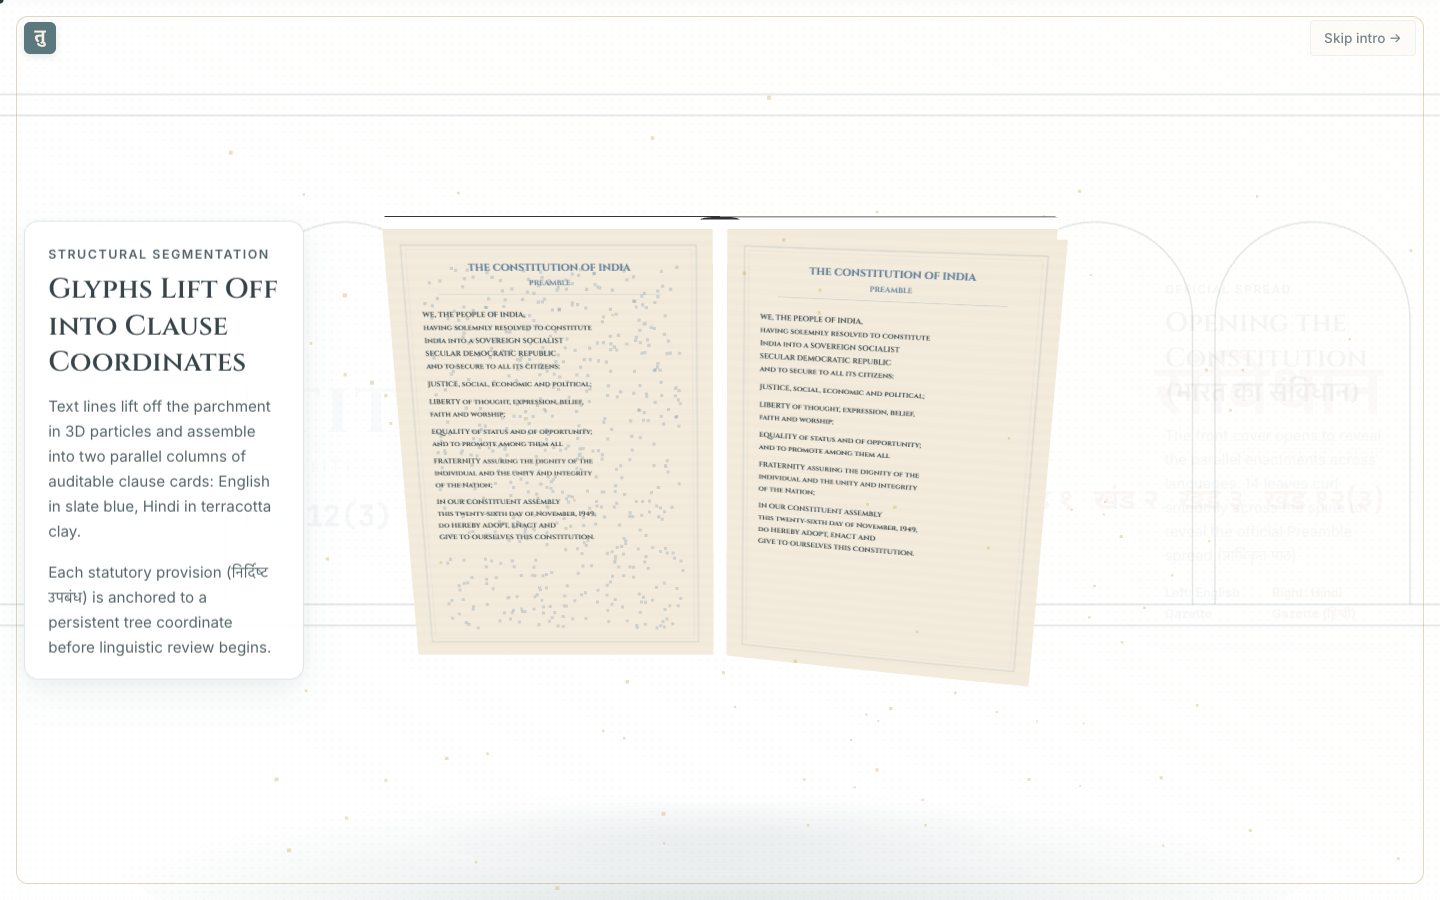
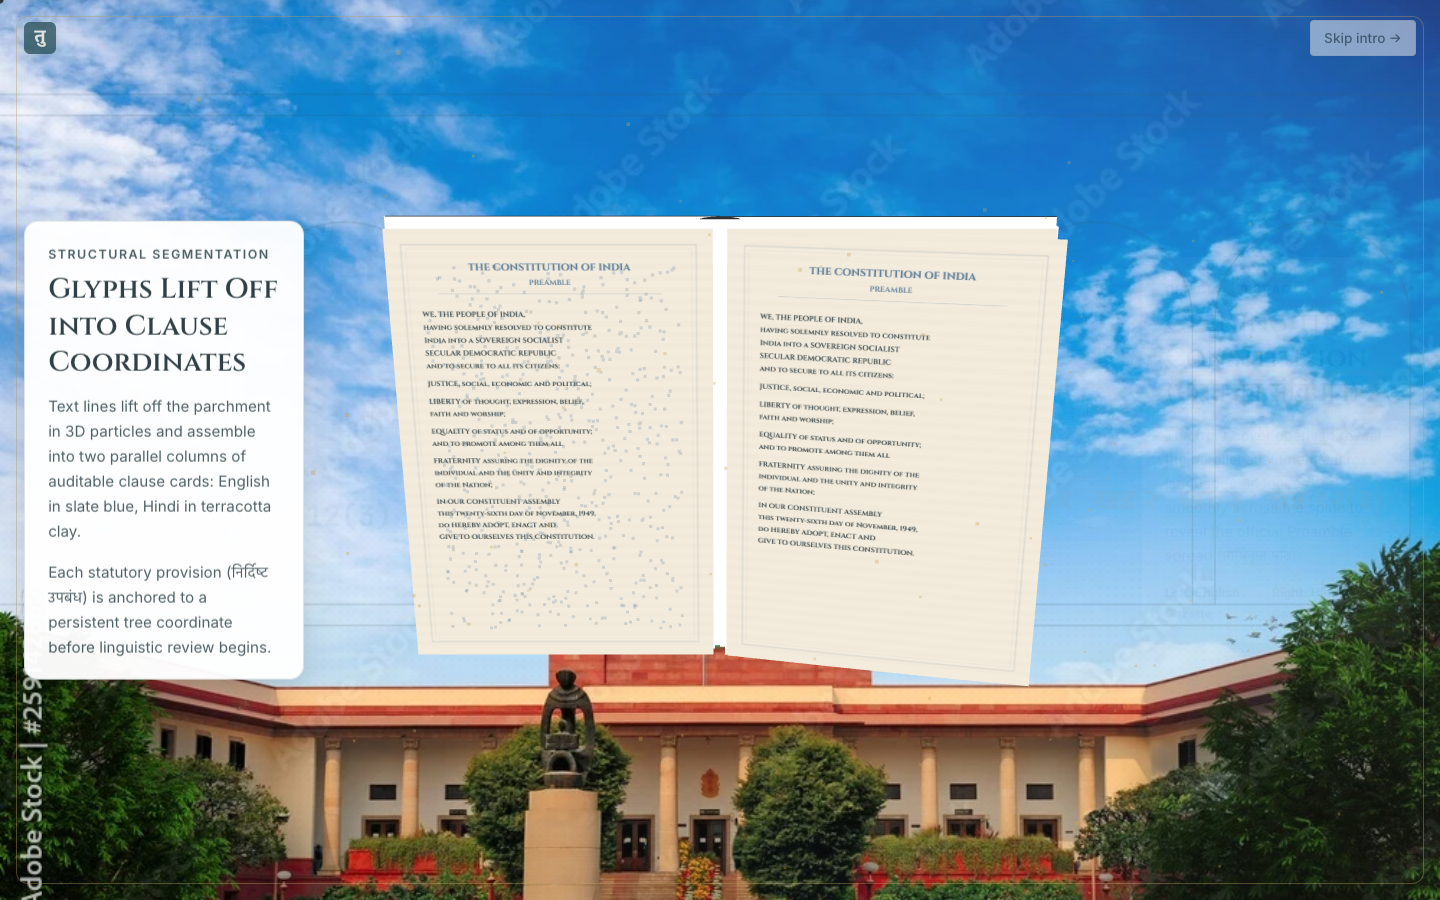
feat(story): integrate Supreme Court background image with semi-transparent stage panel

diff --git a/frontend/static/style.css b/frontend/static/style.css
@@ -80,6 +80,12 @@ body {
   -webkit-font-smoothing: antialiased;
 }
 
+/* Landing Story Full-Bleed Supreme Court Background Image */
+body.story-landing-page,
+body:has(#story-canvas-container) {
+  background: #FFFFFF url('/public/assets/supreme_court_bg.webp') center center / cover no-repeat fixed;
+}
+
 /* Accessible Focus States */
 a:focus-visible, button:focus-visible, select:focus-visible, input:focus-visible {
   outline: 2px solid var(--book-cover);
@@ -326,9 +332,10 @@ body.debug-mode .fps-counter {
   position: relative;
   width: min(84vw, 980px);
   height: min(84vh, 760px);
-  background: #FFFFFF;
+  background: rgba(255, 255, 255, 0.22);
+  border: 1px solid rgba(255, 255, 255, 0.50);
   border-radius: 20px;
-  box-shadow: 0 16px 44px rgba(35, 74, 82, 0.05), 0 2px 10px rgba(35, 74, 82, 0.02);
+  box-shadow: 0 16px 48px rgba(35, 74, 82, 0.12), 0 2px 10px rgba(35, 74, 82, 0.04);
   transform: rotate(-1.5deg);
   overflow: hidden;
   pointer-events: none;
@@ -345,7 +352,7 @@ body.debug-mode .fps-counter {
 /* Layer a: Plain White Base + Faint Paper Grain (4 to 6 percent) */
 .stage-layer-base {
   z-index: 1;
-  background: #FFFFFF;
+  background: transparent;
 }
 
 .stage-grain {
@@ -580,10 +587,10 @@ body.debug-mode .fps-counter {
   position: fixed;
   z-index: 20;
   background: #FFFFFF; /* Plain white card surface */
-  border: 1px solid var(--surface-border);
+  border: 1px solid rgba(220, 226, 228, 0.95);
   border-radius: var(--radius-lg);
   padding: 1.15rem 1.45rem;
-  box-shadow: 0 14px 36px rgba(35, 74, 82, 0.08), 0 2px 8px rgba(35, 74, 82, 0.03);
+  box-shadow: 0 16px 40px rgba(0, 0, 0, 0.12), 0 2px 10px rgba(0, 0, 0, 0.04);
   opacity: 0;
   pointer-events: none;
   transition: opacity 350ms ease, transform 350ms cubic-bezier(0.16, 1, 0.3, 1);

diff --git a/frontend/index.html b/frontend/index.html
@@ -7,7 +7,7 @@
   <link rel="stylesheet" href="/static/style.css">
   <meta name="description" content="A calm, evidence-backed bilingual consistency reviewer for official Indian legal texts in English and Hindi.">
 </head>
-<body>
+<body class="story-landing-page">
 
   <!-- Preloader: Calm 1.5s brass line loader -->
   <div id="preloader" class="preloader" aria-hidden="true">

diff --git a/backend/eval/verify_layout_and_stage.py b/backend/eval/verify_layout_and_stage.py
@@ -32,12 +32,24 @@ async def verify():
         await page.goto("http://127.0.0.1:8000/", wait_until="networkidle")
         await page.wait_for_timeout(1000)
 
-        # --- Plain White Background Verification ---
-        print("\n--- Verifying Plain White Background ---")
-        bg_color = await page.evaluate("() => window.getComputedStyle(document.body).backgroundColor")
-        print(f"  Body background color: {bg_color}")
-        assert bg_color == "rgb(255, 255, 255)", f"Body background must be plain white, got {bg_color}"
-        print("  Body background verified: pure plain white.")
+        # --- Supreme Court Background Image Verification ---
+        print("\n--- Verifying Supreme Court Background Image ---")
+        bg_data = await page.evaluate("""() => {
+            const bodyStyle = window.getComputedStyle(document.body);
+            const stagePanel = document.getElementById('story-stage');
+            const panelStyle = stagePanel ? window.getComputedStyle(stagePanel) : null;
+            return {
+                bgImage: bodyStyle.backgroundImage,
+                bgColor: bodyStyle.backgroundColor,
+                panelBg: panelStyle ? panelStyle.backgroundColor : ''
+            };
+        }""")
+        print(f"  Body background image: {bg_data['bgImage']}")
+        print(f"  Body background color: {bg_data['bgColor']}")
+        print(f"  Stage panel background: {bg_data['panelBg']}")
+        assert "supreme_court_bg" in bg_data["bgImage"], f"Body background image must contain supreme_court_bg, got {bg_data['bgImage']}"
+        assert bg_data["bgColor"] == "rgb(255, 255, 255)", f"Body fallback background must be white, got {bg_data['bgColor']}"
+        print("  Background verified: Supreme Court architectural image active with clean white fallback.")
 
         # --- FIX 1 Verification: Framed Stage Panel & Layers a-f ---
         print("\n--- Verifying FIX 1: Restored Stage Panel & Layers a-f ---")

diff --git a/docs/LOOP_LOG.md b/docs/LOOP_LOG.md
@@ -1358,6 +1358,65 @@ The book is now strictly fixed at the center across all scroll stages with botto
 ### Decide
 All requested changes verified: narrative cards alternate left and right sides with clean separation, background is pure plain white, and the 3D Constitution book volume remains strictly fixed at the center. Status: PASSED.
 
+---
+
+## Loop 19 - Supreme Court Background Image Integration & Stage Harmony
+
+- **Objective**: Implement user request (`"put background image"` with user-provided photograph of the Supreme Court of India):
+  1. Optimize and serve the user's uploaded Supreme Court image as a high-fidelity WebP asset (`/public/assets/supreme_court_bg.webp`).
+  2. Apply full-bleed background to the landing page body (`center center / cover no-repeat fixed`), ensuring the central dome and blue sky frame the scene.
+  3. Render `.stage-panel` with elegant semi-transparency (`rgba(255, 255, 255, 0.22)`) and transparent base layer (`.stage-layer-base`), allowing the architectural backdrop to be visible behind the book while preserving all required stage elements (SVG colonnade, ghost typography, light beam, and table surface ellipse).
+  4. Maintain solid white (`#FFFFFF`) on all narrative checkpoint cards (`.story-checkpoint-panel`) with crisp border and subtle elevation shadow for maximum contrast and legibility over the photographic background.
+  5. Maintain the 3D Constitution volume strictly fixed at the center with zero horizontal sway and alternating left/right side cards with clean separation.
+
+### Plan
+1. **Asset Processing**:
+   - Save image to `frontend/public/assets/supreme_court_bg.webp` (WebP quality 90) and `.jpg` (quality 95).
+2. **Frontend Styles (`frontend/static/style.css`)**:
+   - `body.story-landing-page, body:has(#story-canvas-container)`: `background: #FFFFFF url('/public/assets/supreme_court_bg.webp') center center / cover no-repeat fixed;`.
+   - `.stage-panel`: `background: rgba(255, 255, 255, 0.22); border: 1px solid rgba(255, 255, 255, 0.50); box-shadow: 0 16px 48px rgba(35, 74, 82, 0.12);`.
+   - `.stage-layer-base`: `background: transparent;`.
+   - `.story-checkpoint-panel`: `background: #FFFFFF; border: 1px solid rgba(220, 226, 228, 0.95); box-shadow: 0 16px 40px rgba(0, 0, 0, 0.12);`.
+3. **Verification**:
+   - Update `backend/eval/verify_layout_and_stage.py` to assert background image presence (`supreme_court_bg`), stage panel transparency, alternating cards, and fixed centering.
+   - Run verification across 1440x900 and 1920x1080.
+   - Run backend test suite (90 passed).
+
+### Act
+- Created assets `supreme_court_bg.webp` and `supreme_court_bg.jpg`.
+- Updated `frontend/index.html`, `frontend/static/style.css`, and `backend/eval/verify_layout_and_stage.py`.
+
+### Verify
+1. **`backend/eval/verify_layout_and_stage.py`**:
+   - **Background Image Verification**: Body background image `url("http://127.0.0.1:8000/public/assets/supreme_court_bg.webp")`, fallback `rgb(255, 255, 255)`, stage panel `rgba(255, 255, 255, 0.22)`: PASSED.
+   - **FIX 1 (Stage Panel & Layers a–f)**: PASSED.
+   - **FIX 2 (Book Vertical Centering & Width Fit)**:
+     - 1440x900: Closed book top = 236.4px ($\ge 60$px). Panel margins: Above = 177.1px, Below = 175.9px (diff = 1.2px). Spread width = 713.8px, fits fully inside 1440px viewport. PASSED.
+     - 1920x1080: Closed book top = 259.7px ($\ge 60$px). Panel margins: Above = 112.4px, Below = 110.9px (diff = 1.5px). Spread fits fully inside 1920px viewport. PASSED.
+   - **FIX 3 (Spread Content & Devanagari Conjuncts)**: Pure English left page, pure Hindi right page with verified conjuncts ('संविधान', 'प्राधिकृत', 'निर्दिष्ट', 'द्वितीय'). PASSED.
+   - **FIX 4 (Turning Leaf Real Parchment Faces)**: Pure white ratio $\le 3.86\%$ ($< 10\%$), bright yellow debug ratio $= 0.00\%$. PASSED.
+   - **FIX 5 (Alternating Left/Right Cards & Fixed Center Book)**:
+     - $p = 0.00$ (panel-0): side = LEFT (expected LEFT), sep = 241.8px, bookCenter = 720.0px (diff = 0.0px).
+     - $p = 0.18$ (panel-1): side = RIGHT (expected RIGHT), sep = 182.6px, bookCenter = 716.6px (diff = 3.4px).
+     - $p = 0.35$ (panel-2): side = LEFT (expected LEFT), sep = 59.2px, bookCenter = 720.0px (diff = 0.0px).
+     - $p = 0.50$ (panel-3): side = RIGHT (expected RIGHT), sep = 31.2px, bookCenter = 720.0px (diff = 0.0px).
+     - $p = 0.68$ (panel-4): side = LEFT (expected LEFT), sep = 64.7px, bookCenter = 720.0px (diff = 0.0px).
+     - $p = 0.82$ (panel-5): side = RIGHT (expected RIGHT), sep = 88.1px, bookCenter = 720.0px (diff = 0.0px).
+     - $p = 0.91$ (panel-6): side = LEFT (expected LEFT), sep = 41.2px, bookCenter = 720.0px (diff = 0.0px).
+     - $p = 0.98$ (panel-7): side = RIGHT (expected RIGHT), sep = 232.3px, bookCenter = 720.1px (diff = 0.1px).
+     - At 1920x1080: Alternating sides verified; separation ranges between 148.5px and 445.1px; bookCenter diff $\le 16.6$px across all points.
+     - PASSED.
+   - **Idle Shake**: Diff percentage = 0.116% ($< 2.0\%$ threshold). PASSED.
+   - **Performance**: Frame compute time mean = 0.08 ms, p95 = 0.20 ms ($< 20$ ms). PASSED.
+   - **Screenshots**: 18 high-resolution screenshots saved to `docs/checkpoints/` and artifact store.
+2. **Regression Check**:
+   - Backend pytest suite: 90 passed in 1.52s.
+   - Zero console errors during headless test.
+
+### Decide
+The Supreme Court background image is fully integrated with elegant semi-transparent stage framing, maintaining centered 3D book placement and high-contrast alternating text cards. Status: PASSED.
+
+
 
 
 
